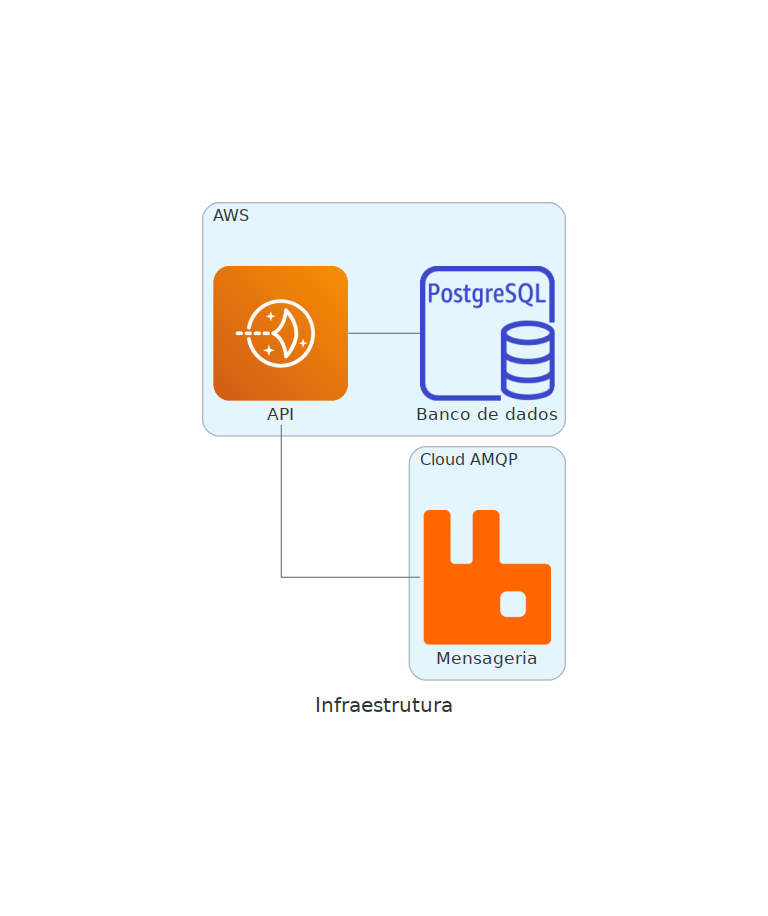
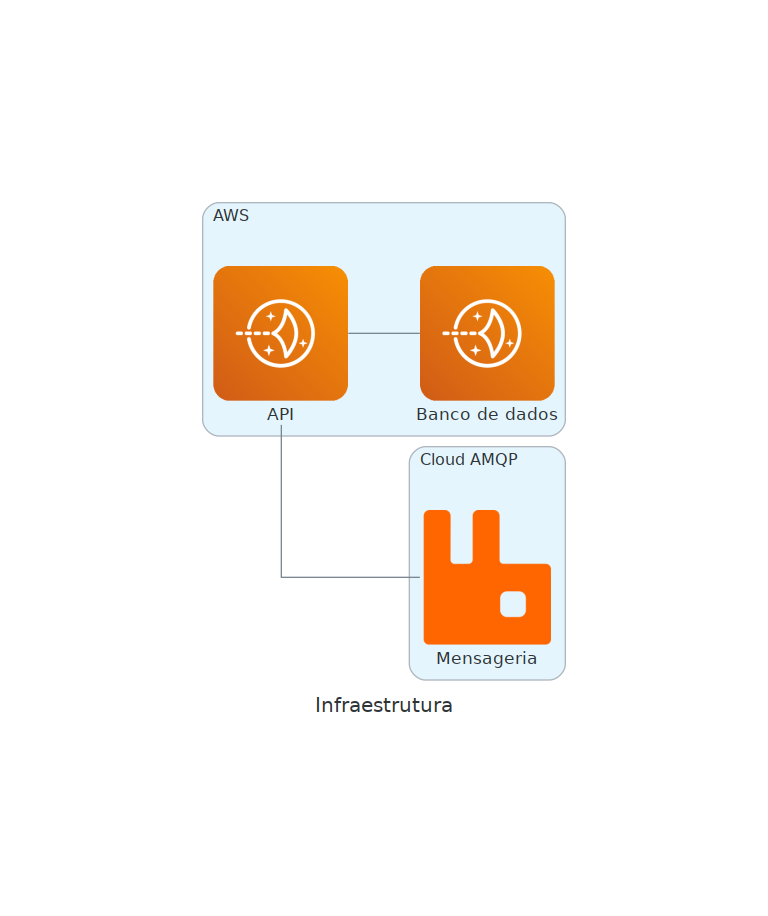
fix: corrige api e adiciona seeder

Changed region(s): [[0.5312, 0.2751, 0.75, 0.4585]]

diff --git a/backend/services/seeder.py b/backend/services/seeder.py
@@ -1,0 +1,103 @@
+import requests
+
+
+API_HOST = 'https://guiame-api.3far1ivu8btka.us-east-1.cs.amazonlightsail.com'
+API_AUTH = ('admin', 'admin')
+
+
+def seed(endpoint='', dados={}):
+    for dado in dados:
+        res = requests.post(endpoint, auth=API_AUTH, json=dado)
+
+        if res.ok:
+            print(f'{endpoint} - OK')
+        else:
+            print(f'{endpoint} - NOT OK')
+            print(res.text)
+
+
+def seed_tipo_entidade():
+    seed(endpoint=f'{API_HOST}/tipo_entidade',
+         dados=[
+             {
+                 'descricao': 'Prefeitura',
+             },
+             {
+                 'descricao': 'Shopping',
+             },
+             {
+                 'descricao': 'Galeria',
+             },
+             {
+                 'descricao': 'Loja',
+             },
+         ])
+
+
+def seed_entidade():
+    seed(endpoint=f'{API_HOST}/entidade',
+         dados=[
+             {
+                 'descricao': 'Prefeitura de teste',
+                 'tipo': 1,
+                 'cep': '13610-509',
+                 'endereco': 'Rua de teste',
+                 'bairro': 'Bairro de teste',
+                 'cidade': 'Cidade de teste',
+                 'estado': 'SP'
+             },
+         ])
+
+
+def seed_tipo_artefato():
+    seed(endpoint=f'{API_HOST}/tipo_artefato',
+         dados=[
+             {
+                 'descricao': 'Semaforo',
+                 'produtor': True
+             },
+             {
+                 'descricao': 'Termostato',
+                 'produtor': True
+             },
+             {
+                 'descricao': 'Comercial',
+                 'produtor': True
+             },
+             {
+                 'descricao': 'Propaganda',
+                 'produtor': True
+             },
+         ])
+
+
+def seed_artefato():
+    seed(endpoint=f'{API_HOST}/artefato',
+         dados=[
+            {
+                'tipo': 2,
+                'entidade': 1,
+                'descricao': 'Semaforo',
+                'ativo': True,
+                'comportamentos': {
+                    'open_duration': 5,
+                    'closed_duration': 5
+                },
+            },
+            {
+                'tipo': 2,
+                'entidade': 1,
+                'descricao': 'Semaforo',
+                'ativo': True,
+                'comportamentos': {
+                    'open_duration': 30,
+                    'closed_duration': 20
+                },
+            },
+         ])
+
+
+seed_tipo_entidade()
+seed_entidade()
+seed_tipo_artefato()
+seed_artefato()

diff --git a/docs/diagramas/infraestrutura.py b/docs/diagramas/infraestrutura.py
@@ -1,14 +1,13 @@
 import diagrams as d
-import diagrams.aws.database as ad
 import diagrams.aws.compute as ac
 import diagrams.onprem.queue as oq
 
 with d.Diagram('Infraestrutura'):
     with d.Cluster('AWS'):
-        lightsail = ac.Lightsail('API')
-        rds = ad.RDSPostgresqlInstance('Banco de dados')
+        lightsail_api = ac.Lightsail('API')
+        lightsail_db = ac.Lightsail('Banco de dados')
 
     with d.Cluster('Cloud AMQP'):
         rabbitmq = oq.RabbitMQ('Mensageria')
 
-    lightsail - [rds, rabbitmq]
+    lightsail_api - [lightsail_db, rabbitmq]

diff --git a/backend/services/repositories/tipo_artefato_repository.py b/backend/services/repositories/tipo_artefato_repository.py
@@ -47,7 +47,7 @@ class TipoArtefatoRepository(BaseRepository):
         '''
         resultado = self.executa(query, retorna_resultados=True)
 
-        return dict(resultado[0])
+        return resultado
 
     def atualiza(self, tipo_artefato, id):
         query = '''
